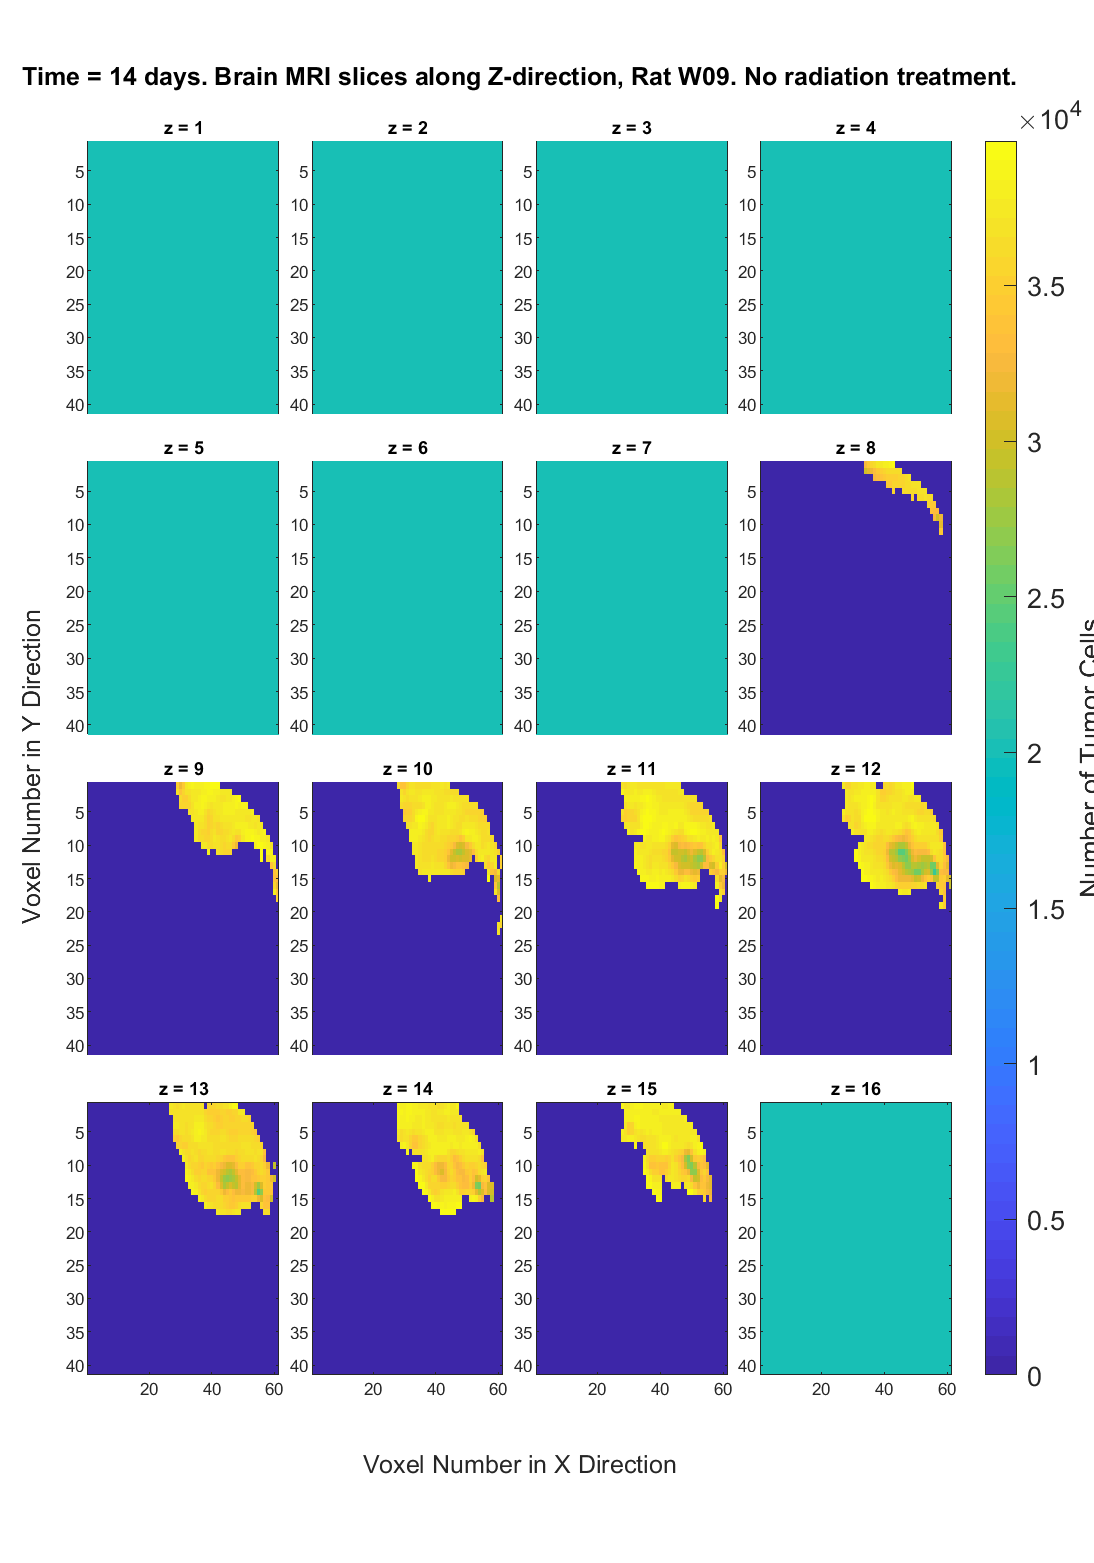
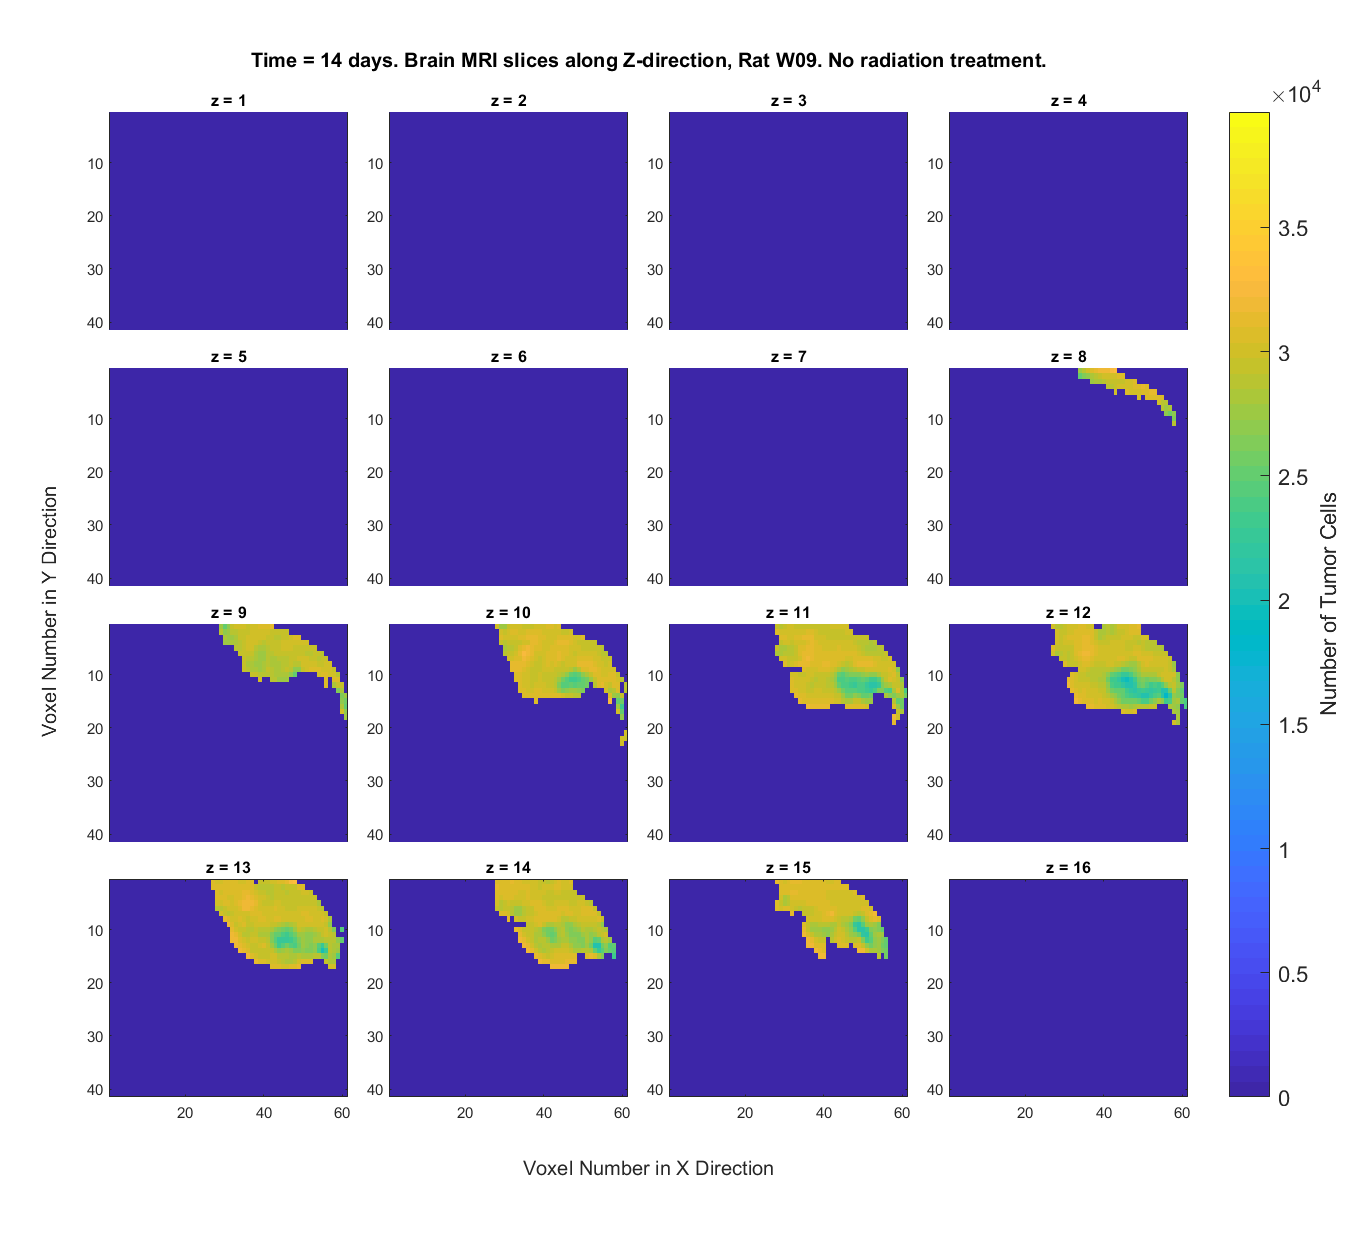
werewr

diff --git a/exam/final/src/rat_exam.m b/exam/final/src/rat_exam.m
@@ -109,12 +109,9 @@ for irow = nrow:-1:1
                                     ] ...
                       );
                                     
-        subPlot.XLim = [1 61];
         set ( gca, 'ydir', 'reverse' );
-        subPlot.YLim = [1 41];
         
-        bwboundaries(cells(:,:,sliceNumber,k));
-        imagesc(cells(:,:,sliceNumber,k));
+        imagesc(cells(:,:,sliceNumber,k),colorLimits);
        
         if sliceNumber>=13
             subPlot.XAxis.Visible = 'on';
